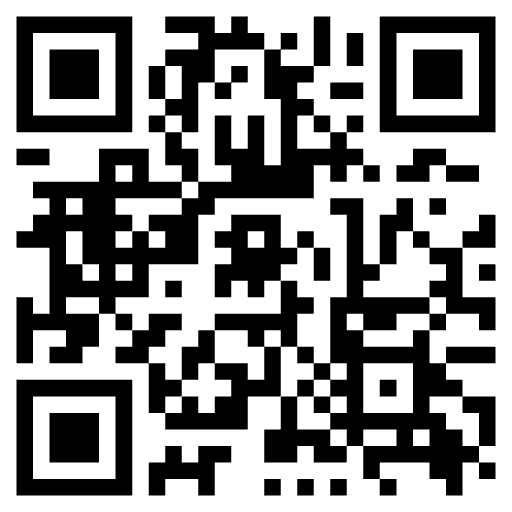
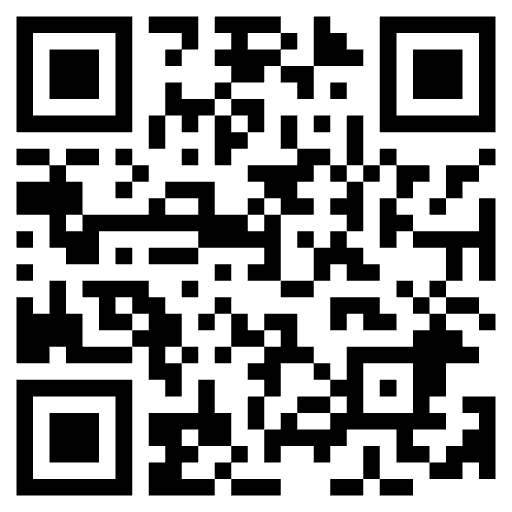
update signup link to 网页 tracking + new QR code

diff --git a/index.html b/index.html
@@ -809,7 +809,7 @@
   <p>前三期均满员。现在报名，确认你的位置。</p>
 
   <!-- 主报名按钮 -->
-  <a href="https://jsj.top/f/qNzuhw?x_field_1=Ivan" target="_blank" class="btn-primary" style="font-size: 18px; padding: 18px 56px;">
+  <a href="https://jsj.top/f/qNzuhw?x_field_1=%E7%BD%91%E9%A1%B5" target="_blank" class="btn-primary" style="font-size: 18px; padding: 18px 56px;">
     点击立即报名 →
   </a>
 

diff --git a/landing-page.html b/landing-page.html
@@ -809,7 +809,7 @@
   <p>前三期均满员。现在报名，确认你的位置。</p>
 
   <!-- 主报名按钮 -->
-  <a href="https://jsj.top/f/qNzuhw?x_field_1=Ivan" target="_blank" class="btn-primary" style="font-size: 18px; padding: 18px 56px;">
+  <a href="https://jsj.top/f/qNzuhw?x_field_1=%E7%BD%91%E9%A1%B5" target="_blank" class="btn-primary" style="font-size: 18px; padding: 18px 56px;">
     点击立即报名 →
   </a>
 
